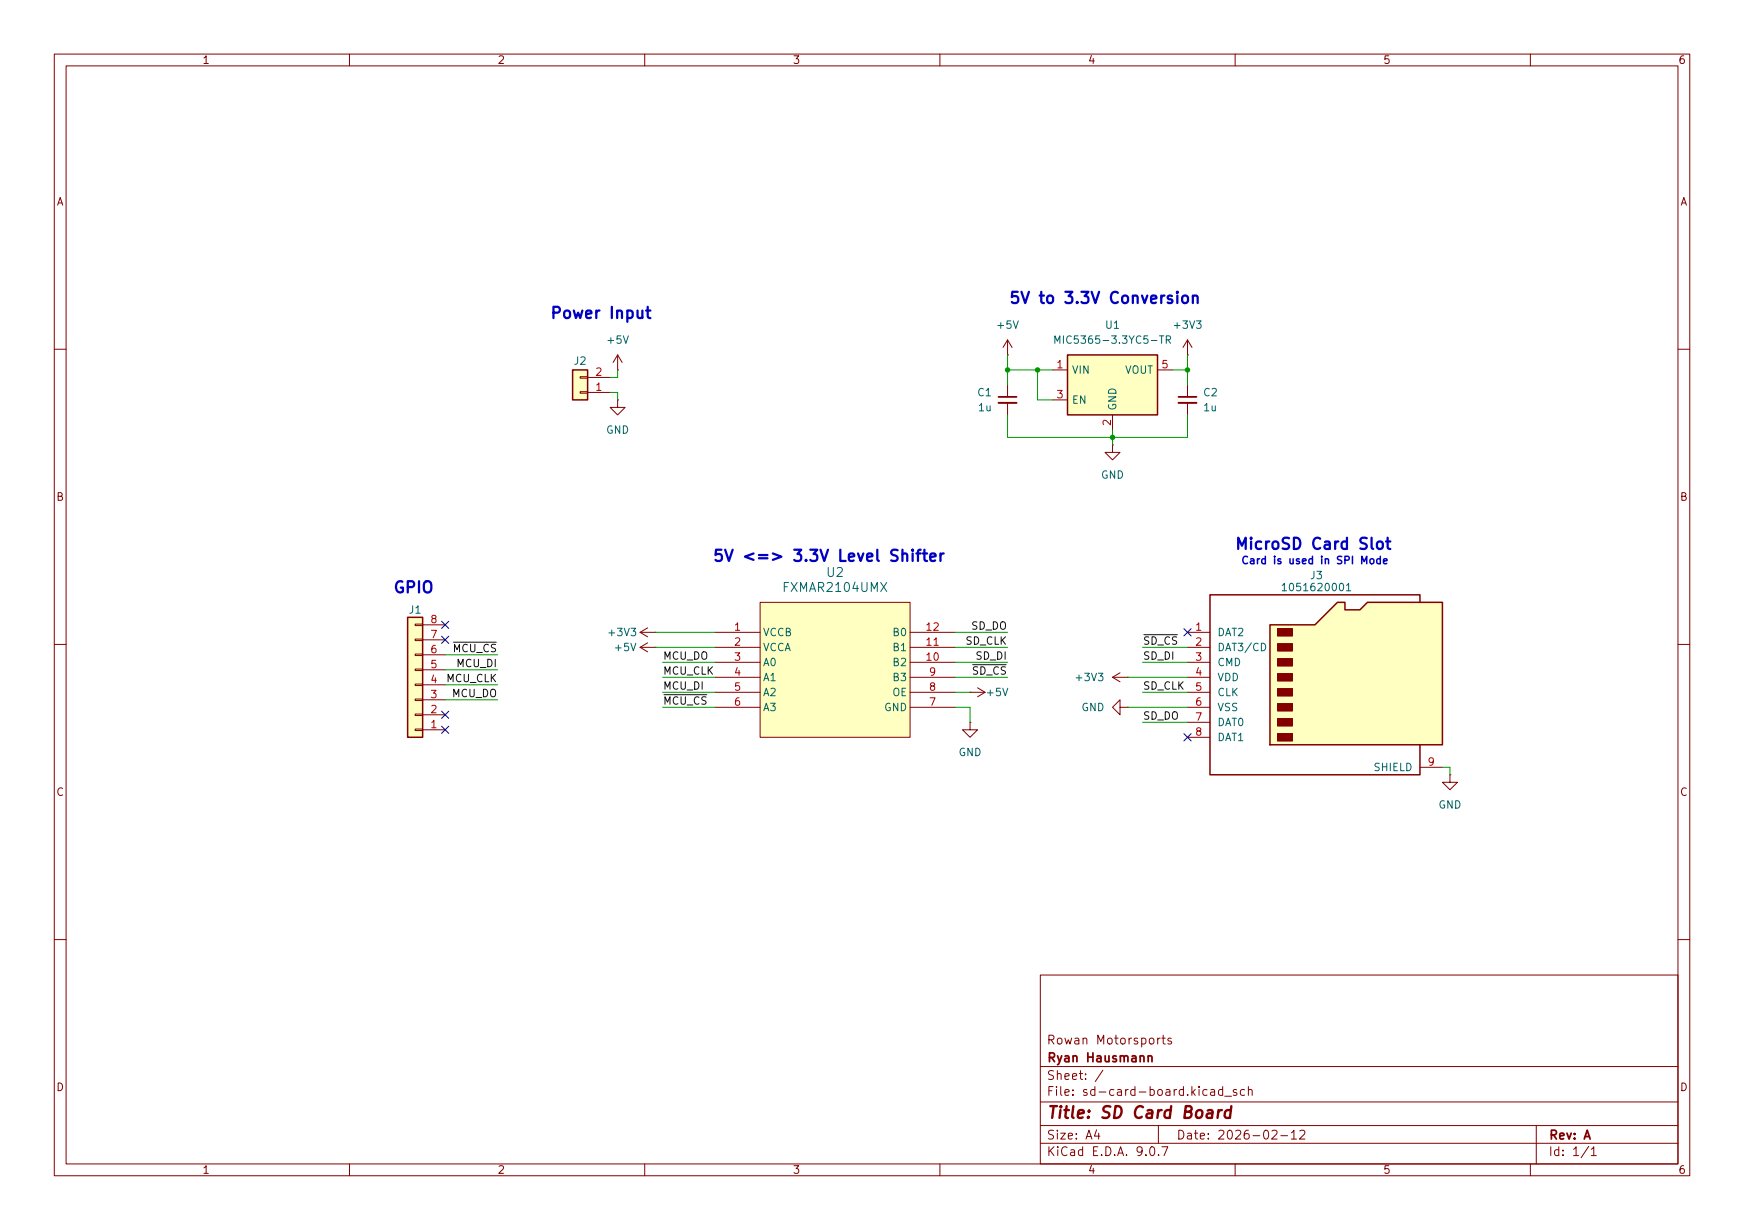
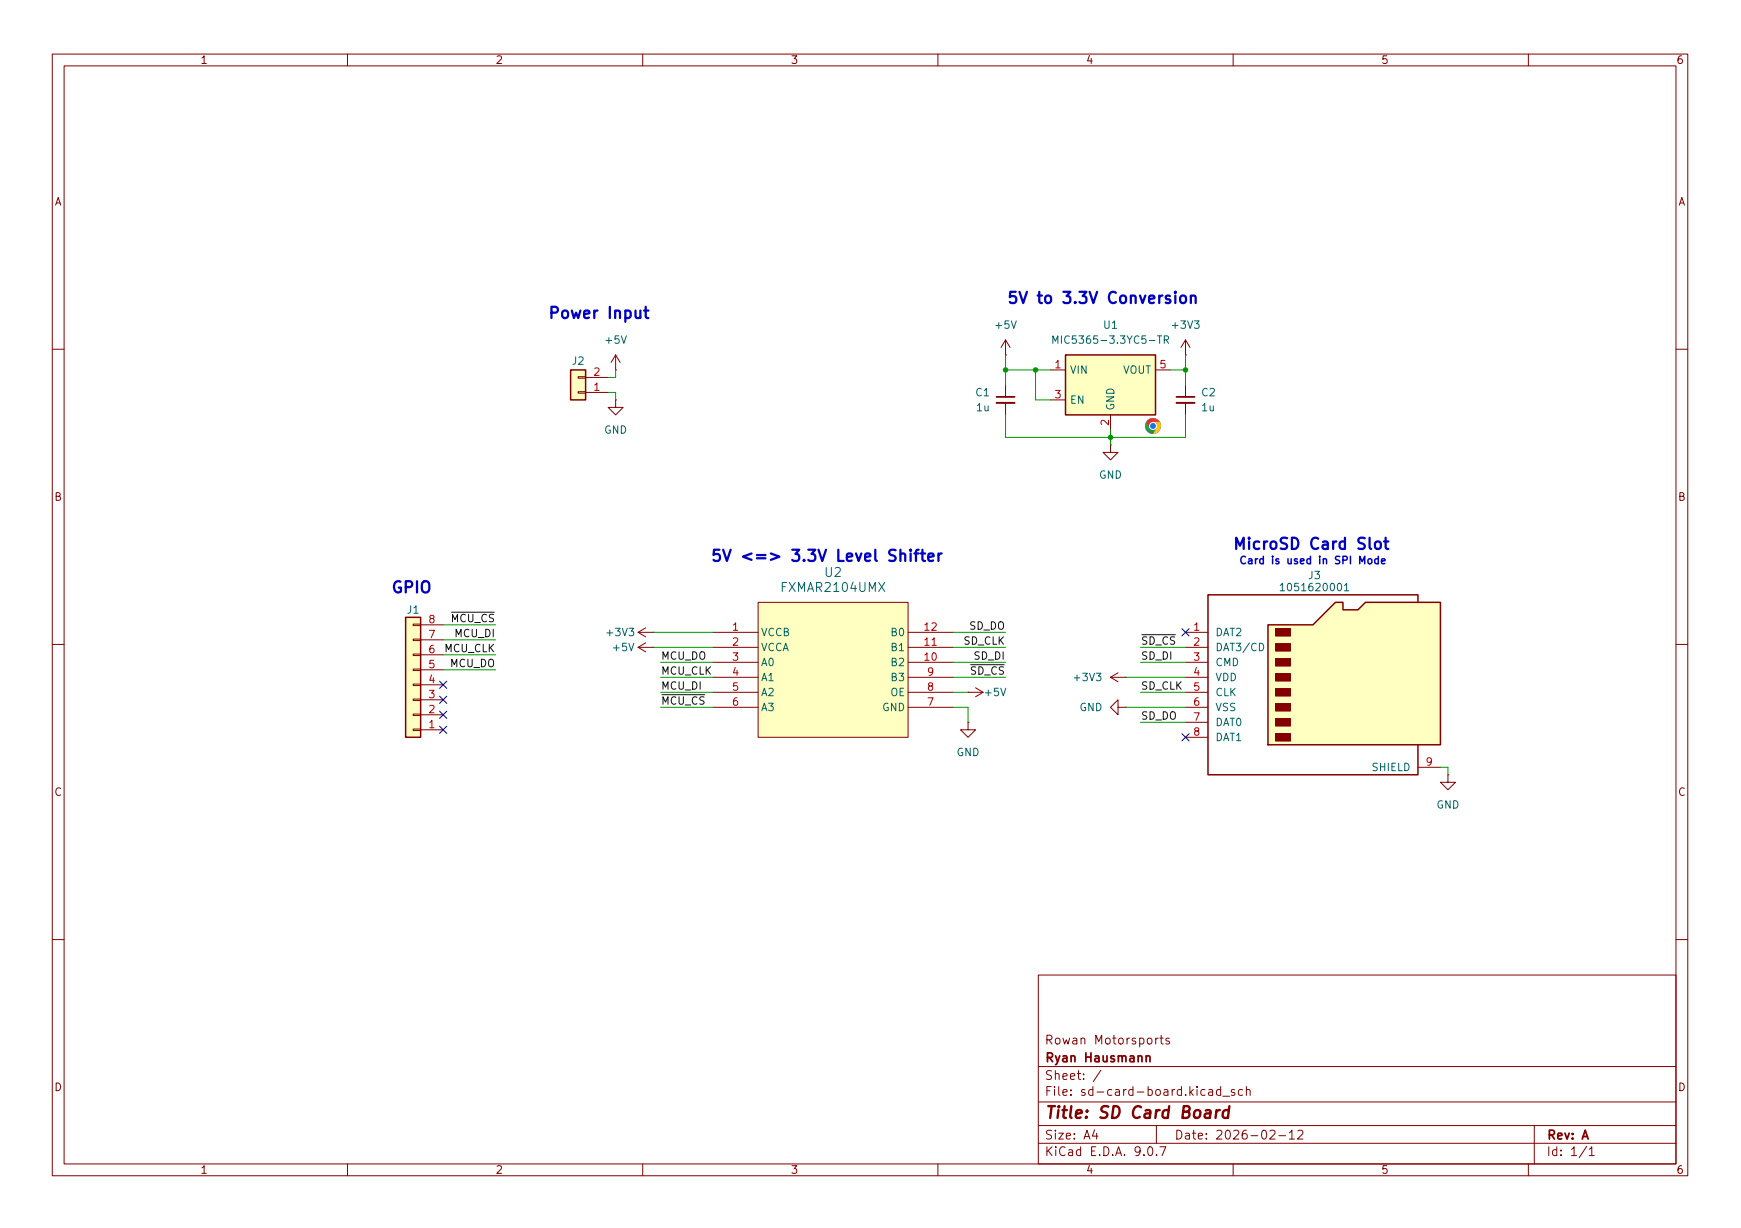
sd-card-board: Switch pins around to ensure that all SPI pins are connected to the same peripheral

diff --git a/sd-card-board/README.md b/sd-card-board/README.md
@@ -16,11 +16,11 @@ A screenshot of the schematic is below, a higher-quality pdf is available [here]
 ## Pins
 | CAN Module | SD Card Board |
 | ---------- | ------------- |
-| A4         | N/C           |
-| A5         | N/C           |
-| A6         | CSn           |
-| A7         | DI            |
-| A8         | CLK           |
-| A9         | DO            |
+| A4         | CSn           |
+| A5         | DI            |
+| A6         | CLK           |
+| A7         | DO            |
+| A8         | N/C           |
+| A9         | N/C           |
 | A10        | N/C           |
 | A11        | N/C           |
